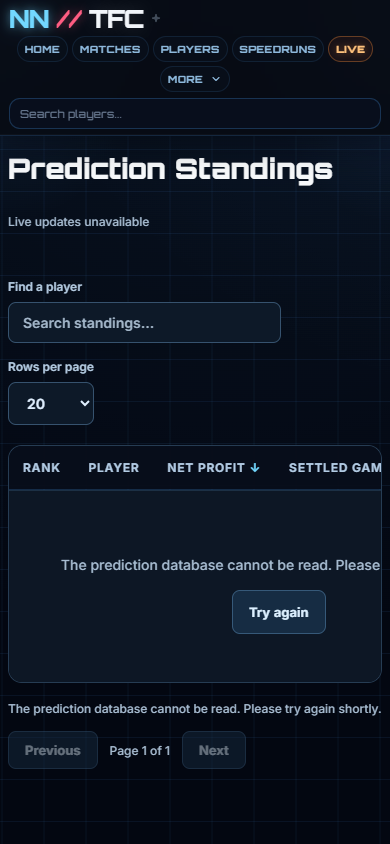
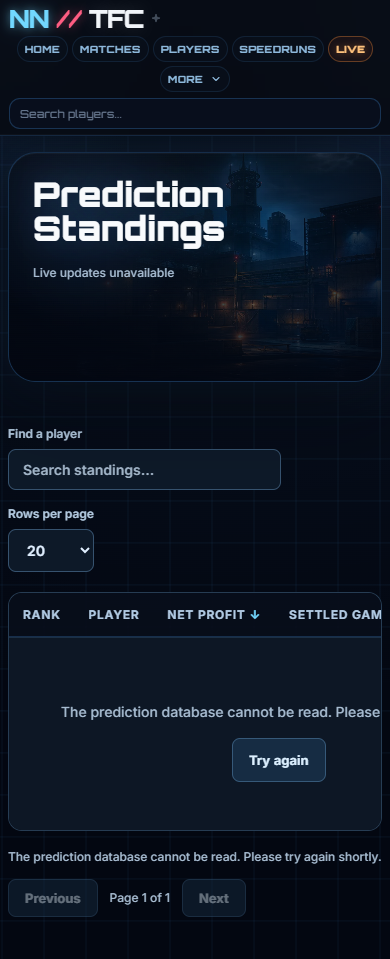
style: use standard site hero on prediction leaderboard

diff --git a/predictions.html b/predictions.html
@@ -52,7 +52,7 @@
         class="site-search"
       >
     </div>
-  </header><main class="page-main-spacing max-w-[1500px] mx-auto px-8 py-10"><section class="prediction-shell"><div class="prediction-hero"><div><h1>Prediction Standings</h1></div><span class="prediction-updated" id="prediction-updated" role="status">Connecting to live standings…</span></div>
+  </header><main class="page-main-spacing max-w-[1500px] mx-auto px-8 py-10"><section class="prediction-shell"><div class="prediction-hero matches2-hero"><div><h1>Prediction Standings</h1></div><span class="prediction-updated" id="prediction-updated" role="status">Connecting to live standings…</span></div>
 <div class="prediction-alert" id="prediction-stale" hidden>Live updates are unavailable. Showing the last successful read; check the updated time.</div>
 <div class="prediction-toolbar"><label for="prediction-search">Find a player<input id="prediction-search" type="search" placeholder="Search standings…" maxlength="100" autocomplete="off"></label><label for="prediction-size">Rows per page<select id="prediction-size"><option value="10">10</option><option value="20" selected>20</option><option value="50">50</option></select></label></div>
 <div class="prediction-table-wrap" role="region" aria-label="Prediction standings" tabindex="0"><table class="prediction-table" id="prediction-table" aria-busy="true"><caption class="sr-only">Live prediction standings. Activate a column heading to sort.</caption><thead><tr><th scope="col" aria-sort="none"><button type="button" data-sort="rank">Rank</button></th><th scope="col" aria-sort="none"><button type="button" data-sort="displayName">Player</button></th><th scope="col" aria-sort="descending"><button type="button" data-sort="netProfit">Net profit</button></th><th scope="col" aria-sort="none"><button type="button" data-sort="settledGames">Settled games</button></th><th scope="col" aria-sort="none"><button type="button" data-sort="winRate">Correct picks</button></th></tr></thead><tbody id="prediction-body"><tr><td colspan="5" class="prediction-state">Loading predictions…</td></tr></tbody></table></div>
